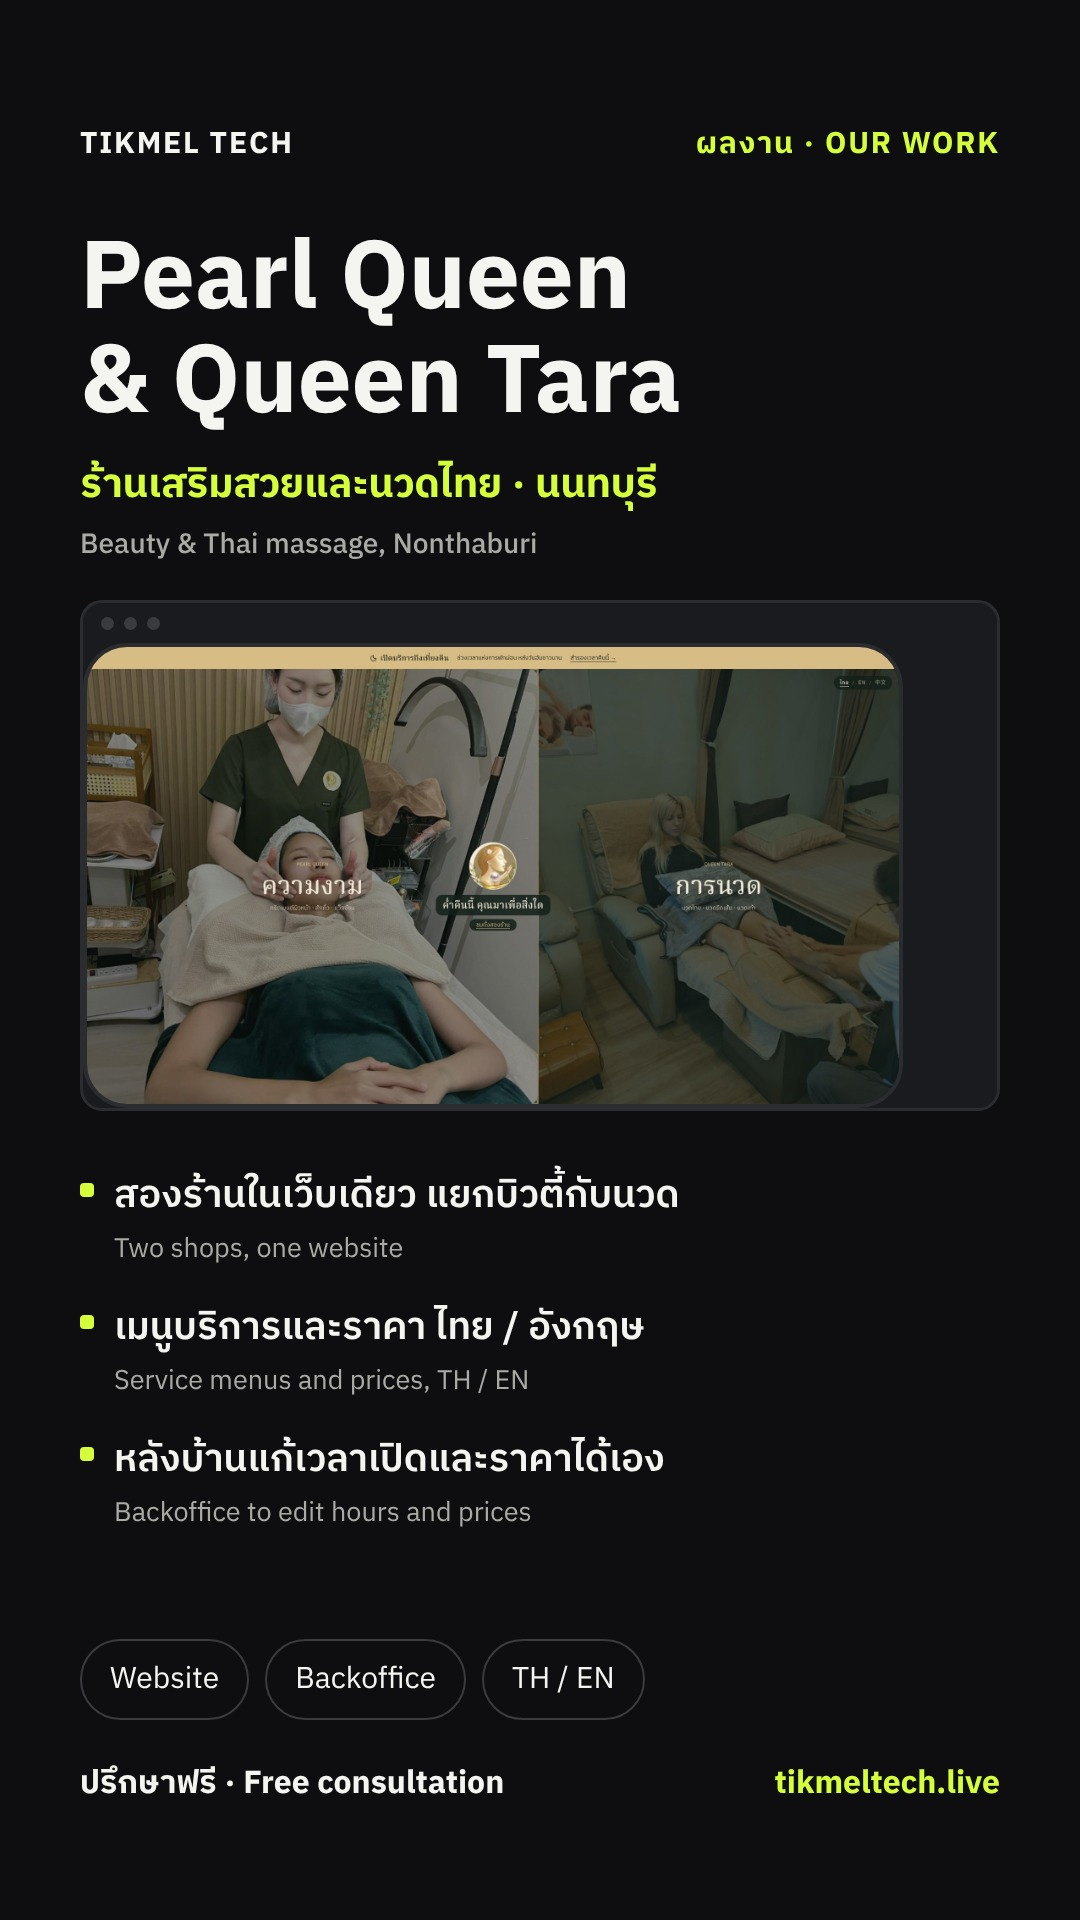
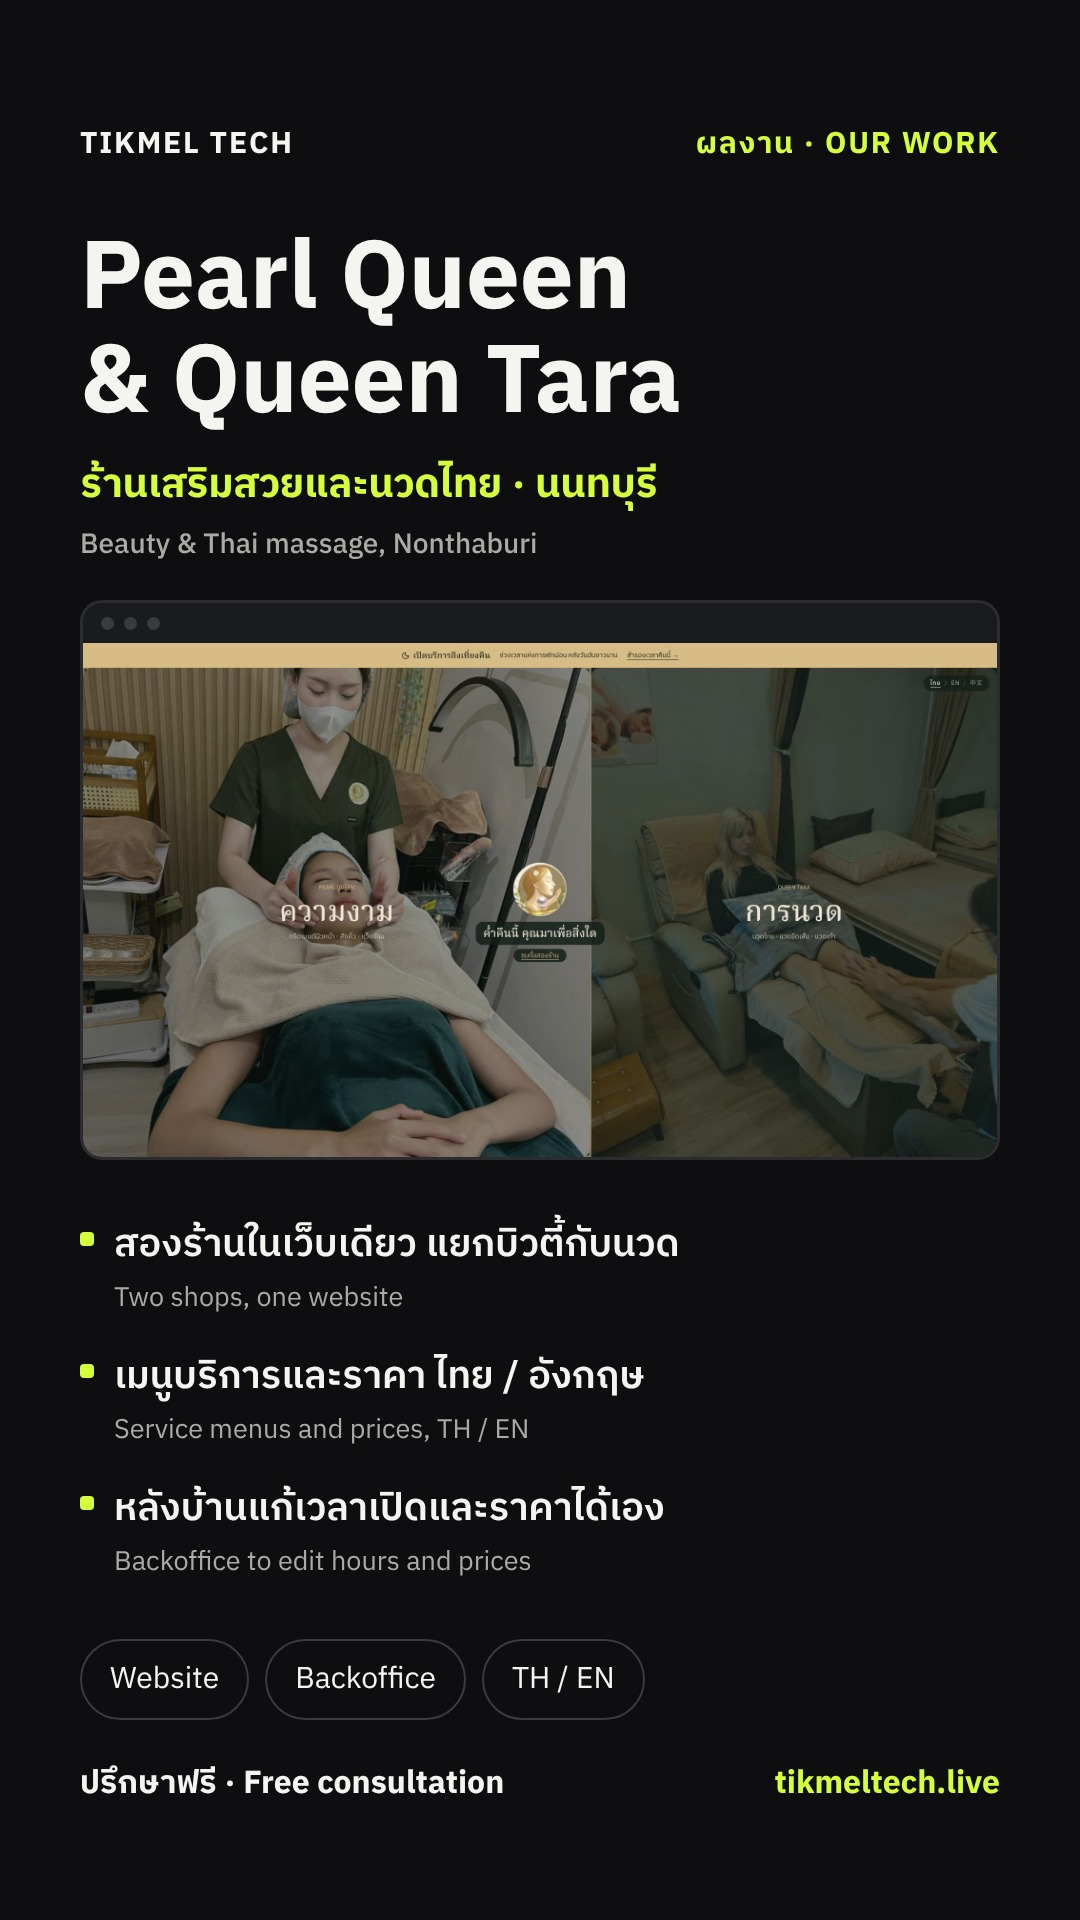
Fix screenshot width in portfolio stories
Claude-Session: https://claude.ai/code/session_016uP9BNKCpKFRJuaZbHgzt7

Changed region(s): [[0.0611, 0.3125, 0.9472, 0.8125]]

diff --git a/design/render_story.py b/design/render_story.py
@@ -36,7 +36,7 @@ h1{{font-size:96px;line-height:1.08;font-weight:700;margin-top:60px}}
 .win{{border-radius:22px;overflow:hidden;border:3px solid #2B2C2F;background:#1A1B1E}}
 .win .bar{{height:40px;display:flex;gap:10px;align-items:center;padding:0 18px}}
 .win .bar i{{width:13px;height:13px;border-radius:50%;background:#3A3B3F}}
-.win img{{width:100%;max-width:none;max-height:none;border:0;border-radius:0;display:block}}
+.frame .win img{{width:100%;max-width:none;max-height:none;border:0;border-radius:0;display:block}}
 ul{{list-style:none;display:flex;flex-direction:column;gap:26px}}
 li{{display:flex;flex-direction:column;padding-left:34px;position:relative}}
 li:before{{content:"";position:absolute;left:0;top:18px;width:14px;height:14px;border-radius:4px;background:{LIME}}}
